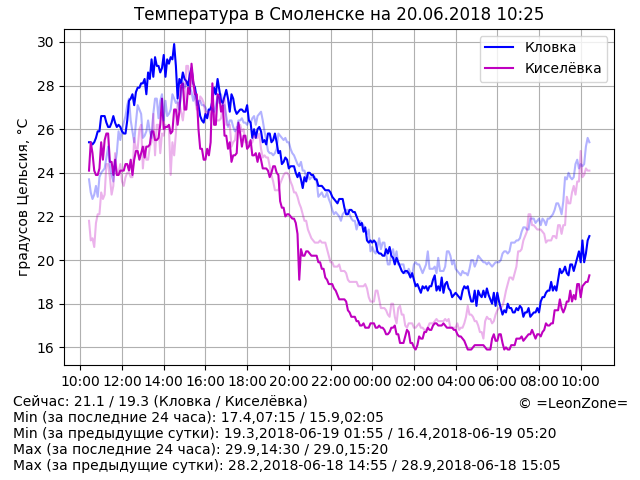
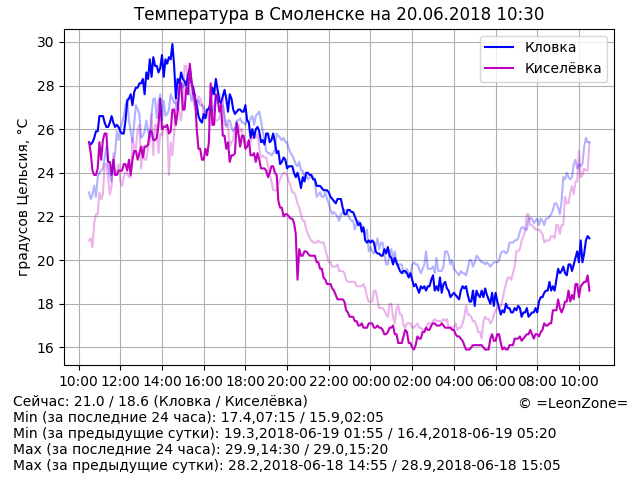
Update data

Changed region(s): [[0.125, 0.0625, 0.9375, 0.75], [0.0938, 0.7812, 0.9375, 0.8438], [0.8125, 0.0, 0.8438, 0.0625]]

diff --git a/index.html b/index.html
@@ -14,7 +14,7 @@
 	<p align="center"><script>document.write("<img src=\"graph.png?rnd="+Math.random()+"\" alt=\"Температура в Смоленске\" align=\"middle\" width=\"640\" height=\"480\" />")</script>
 	<p hidden="true">
 <!-- textinfo -->
-Сейчас: 21.1 / 19.3 (Кловка / Киселёвка)
+Сейчас: 21.0 / 18.6 (Кловка / Киселёвка)
 Min (за последние 24 часа): 17.4,07:15 / 15.9,02:05
 Min (за предыдущие сутки): 19.3,2018-06-19 01:55 / 16.4,2018-06-19 05:20
 Max (за последние 24 часа): 29.9,14:30 / 29.0,15:20
